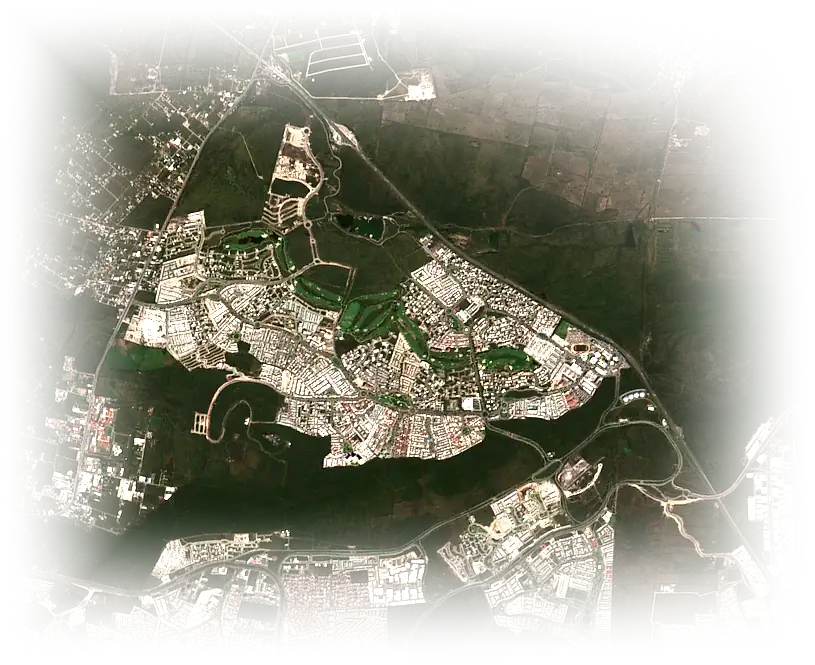
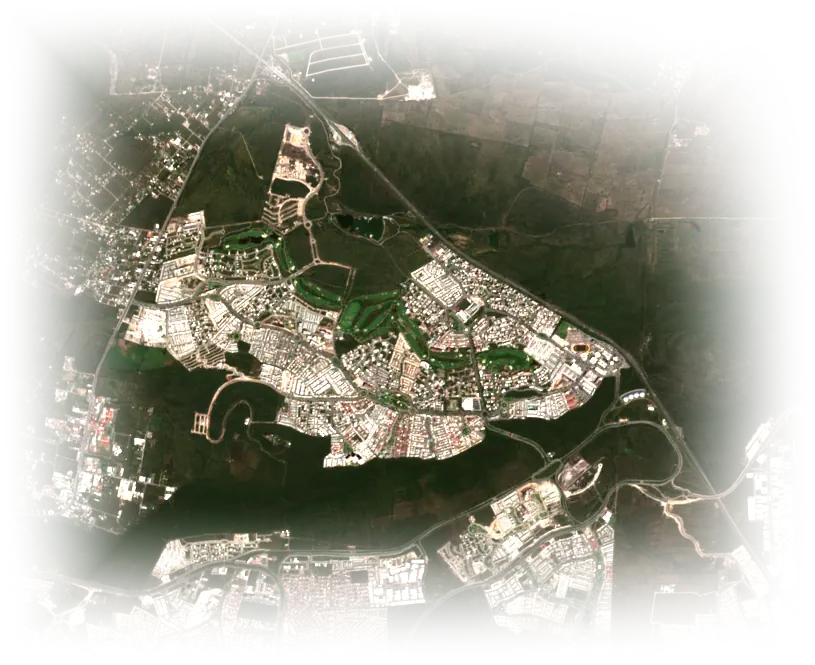
Mapa: sin bloques en el suelo de cerca (sin afilado y con el suelo desvaneciendose del todo hacia el zoom 17) (#224)

diff --git a/scripts/map/realismo/build-realismo.ts b/scripts/map/realismo/build-realismo.ts
@@ -112,8 +112,6 @@ async function construirSuelo(): Promise<{ coordenadas: [number, number][]; byte
   const rgb = await sharp(paths.rawSentinelZibata)
     .extract({ left: px0, top: py0, width, height })
     .removeAlpha()
-    // Un poco de nitidez: a 10 m por píxel los bordes salen blandos al ampliarse (no inventa detalle, solo los marca).
-    .sharpen({ sigma: 0.9, m1: 0.8, m2: 2.2 })
     .raw()
     .toBuffer()
   const rgba = Buffer.alloc(width * height * 4)
@@ -129,7 +127,7 @@ async function construirSuelo(): Promise<{ coordenadas: [number, number][]; byte
     rgba[i * 4 + 3] = Math.round((alfa[i] ?? 0) * t * t * (3 - 2 * t))
   }
   const webp = await sharp(rgba, { raw: { width, height, channels: 4 } })
-    .webp({ quality: 54, alphaQuality: 100, effort: 6 })
+    .webp({ quality: 72, alphaQuality: 100, effort: 6 })
     .toBuffer()
   writeFileSync(`${salida}/suelo.webp`, webp)
   return { coordenadas: esquinasLngLat(v, px0, py0, width, height), bytes: webp.length }

diff --git a/src/features/map/style/layers/realismo.ts b/src/features/map/style/layers/realismo.ts
@@ -138,15 +138,17 @@ export function withRealismoGround(ground: LayerSpecification[]): LayerSpecifica
         type: 'raster',
         source: SOURCE.soil,
         paint: {
-          // De cerca la imagen de 10 m por píxel se ve borrosa: se desvanece y toman el mando los colores vectoriales.
+          // De cerca la imagen de 10 m por píxel se ve borrosa: se desvanece del todo hacia el zoom 17 (los bloques de la compresión se ampliaban hasta verse) y toman el mando los colores vectoriales.
           'raster-opacity': [
             'interpolate',
             ['linear'],
             ['zoom'],
             14.5,
             0.55,
+            16,
+            0.3,
             17,
-            0.15,
+            0.04,
           ] as ExpressionSpecification,
           'raster-saturation': 0.2,
           'raster-contrast': -0.05,
